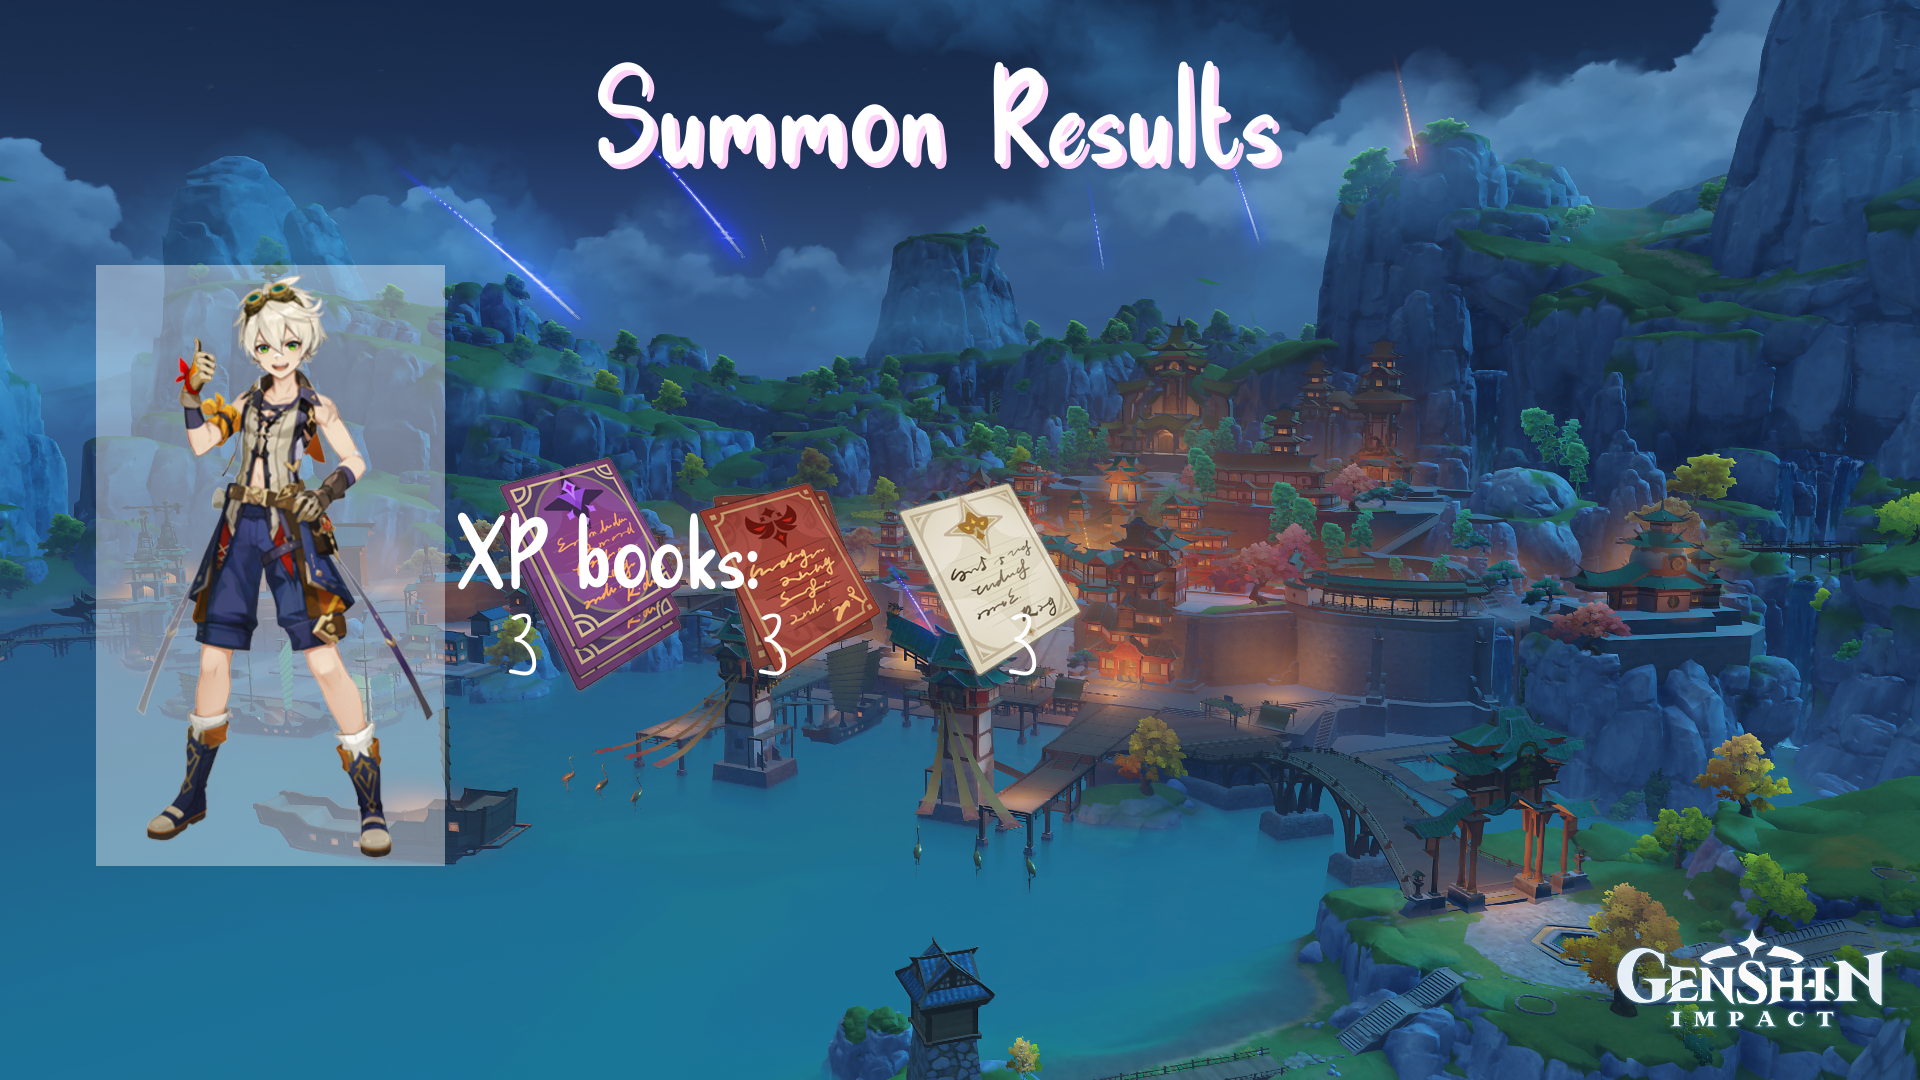
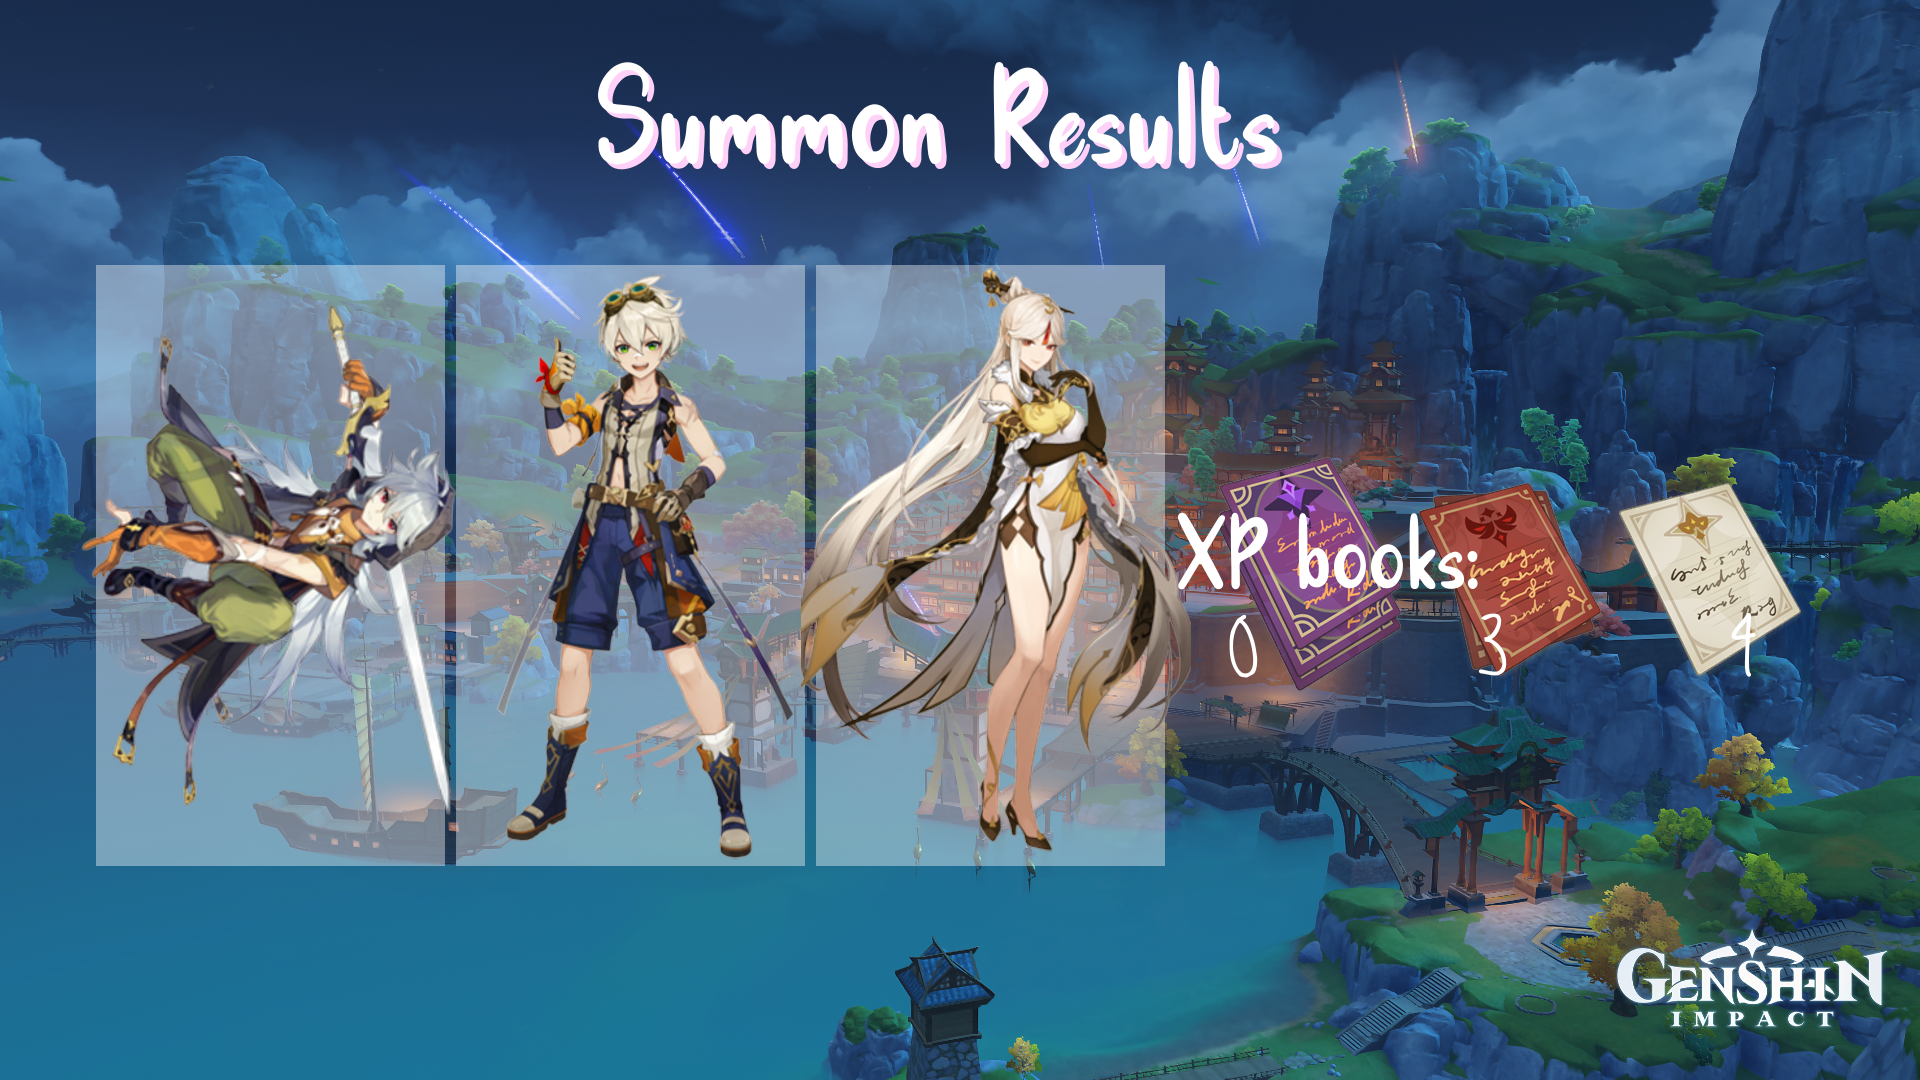
live update inventory

Changed region(s): [[0.0312, 0.2444, 0.9375, 0.825]]

diff --git a/util/idb.py b/util/idb.py
@@ -1,16 +1,62 @@
 import random
 
 import discord
-from discord.ext import commands, tasks
-from discord.ext.commands import has_permissions
+from discord.ext import commands
 from tinydb import TinyDB, Query
+
+
+def create_user(user_id):
+    with TinyDB('./inventory.json') as db:
+        db.insert({'user': user_id, 'chars': [], 'books': [0, 0, 0]})
+
+
+def search(user_id):
+    with TinyDB('./inventory.json') as db:
+        return db.search(Query().user == user_id)
+
+
+def add_char(user_id, char):
+    user_dict = search(user_id)
+    temp_chars = user_dict[0]['chars']
+
+    for characters in temp_chars:
+        if characters[0] == char:
+            if characters[2] < 6:
+                characters[2] += 1
+                with TinyDB('./inventory.json') as db:
+                    db.update({'chars': temp_chars}, Query().user == user_id)
+                return
+            else:
+                return
+
+    temp_chars.append((char, 0, 0))
+    with TinyDB('./inventory.json') as db:
+        db.update({'chars': temp_chars}, Query().user == user_id)
+
+
+def add_book(user_id, color):
+    user_dict = search(user_id)
+    temp_books = user_dict[0]['books']
+
+    if color == 'green_book':
+        temp_books[0] += 1
+    elif color == 'blue_book':
+        temp_books[1] += 1
+    else:
+        temp_books[2] += 1
+    with TinyDB('./inventory.json') as db:
+        db.update({'books': temp_books}, Query().user == user_id)
+
+
+def print_all():
+    with TinyDB('./inventory.json') as db:
+        print(db.all())
 
 
 class InventoryDatabase(commands.Cog):
 
     def __init__(self, client):
         self.client = client
-        self.db = TinyDB('./inventory.json')
 
     # add cog to main system
     @commands.Cog.listener()
@@ -20,64 +66,20 @@ class InventoryDatabase(commands.Cog):
     @commands.command(description='check your inventory full of goodies!\n.inventory')
     async def inventory(self, ctx, _id=0):
         _id = ctx.author.id if _id == 0 else _id
-        inv = self.search(_id)[0]
+        inv = search(_id)[0]
         embed = discord.Embed(title="Your inventory!", colour=discord.Colour(0x7ce010))
 
         embed.set_author(name=ctx.author.display_name if ctx.author.nick is None else ctx.author.nick)
 
         for char in inv.get('chars'):
             embed.add_field(name=char[0], value=f'Level {char[1]}\n Const. {char[2]}', inline=True)
-        embed.add_field(name='Experience Books', value=':blue_book::closed_book::green_book:', inline=False)
+        embed.add_field(name='Experience Books', value=':notebook: :arrow_down: ', inline=False)
         books = inv.get('books')
         embed.add_field(name='Purple Books', value=str(books[0]))
         embed.add_field(name='Blue Books', value=str(books[1]))
         embed.add_field(name='Green Books', value=str(books[2]))
 
         await ctx.send(embed=embed)
-
-    def create_user(self, user_id):
-        self.db.insert({'user': user_id, 'chars': [], 'books': [0, 0, 0]})
-
-    def search(self, user_id):
-        return self.db.search(Query().user == user_id)
-
-    def add_char(self, user_id, char):
-        user_dict = self.search(user_id)
-        temp_chars = user_dict[0]['chars']
-
-        for characters in temp_chars:
-            if characters[0] == char:
-                if characters[2] < 6:
-                    characters[2] += 1
-                    self.db.update({'chars': temp_chars}, Query().user == user_id)
-                    return
-                else:
-                    return
-
-        temp_chars.append((char, 0, 0))
-        self.db.update({'chars': temp_chars}, Query().user == user_id)
-
-    def add_book(self, user_id, color):
-        user_dict = self.search(user_id)
-        temp_books = user_dict[0]['books']
-
-        if color == 'green_book':
-            temp_books[0] += 1
-        elif color == 'blue_book':
-            temp_books[1] += 1
-        else:
-            temp_books[2] += 1
-
-        self.db.update({'books': temp_books}, Query().user == user_id)
-
-    def print_all(self):
-        print(self.db.all())
-
-    @commands.command(hidden=True)
-    @has_permissions(manage_guild=True)
-    async def close_idb(self, ctx):
-        self.db.close()
-        await ctx.send('inventory db connection closed')
 
 
 def setup(client):

diff --git a/cogs/summon.py b/cogs/summon.py
@@ -14,7 +14,6 @@ class Summon(commands.Cog):
         self.client = client
         self.udb = udb.UserDatabase(client)
         self.gdb = gdb.GachaDatabase(client)
-        self.idb = idb.InventoryDatabase(client)
         self.pillow = pillow.Pillow(client)
 
     # events
@@ -51,8 +50,8 @@ class Summon(commands.Cog):
                                   'nom noms each\nwish_event 1; .event_wish 10; .summon_event 10')
     async def event_wish(self, ctx, amount):
         amount = int(amount)
-        if len(self.idb.search(ctx.author.id)) == 0:
-            self.idb.create_user(ctx.author.id)
+        if len(idb.search(ctx.author.id)) == 0:
+            idb.create_user(ctx.author.id)
         if self.gdb.find_user('users', str(ctx.author.id)) is None:
             await self.gdb.insert('users', f'({ctx.author.id}, 0, 0, 0, 0, 0)')
         if not (amount == 1 or 10):
@@ -83,17 +82,17 @@ class Summon(commands.Cog):
         await self.udb.update('users', 'bal', '-'+str(160*amount), str(ctx.author.id))
         for item in results:
             if 'book' in item:
-                self.idb.add_book(ctx.author.id, item)
+                idb.add_book(ctx.author.id, item)
             else:
-                self.idb.add_char(ctx.author.id, item)
+                idb.add_char(ctx.author.id, item)
 
     @commands.command(aliases=['wish_reg', 'summon_reg'],
                       description='wish for new characters and levels on the rotating event banner at a price of 160 '
                                   'nom noms each\nwish_reg 1; .summon_reg 10')
     async def reg_wish(self, ctx, amount):
         amount = int(amount)
-        if len(self.idb.search(ctx.author.id)) == 0:
-            self.idb.create_user(ctx.author.id)
+        if len(idb.search(ctx.author.id)) == 0:
+            idb.create_user(ctx.author.id)
         if self.gdb.find_user('users', str(ctx.author.id)) is None:
             await self.gdb.insert('users', f'({ctx.author.id}, 0, 0, 0, 0, 0)')
         if not (amount == 1 or 10):
@@ -127,9 +126,9 @@ class Summon(commands.Cog):
 
         for item in results:
             if 'book' in item:
-                self.idb.add_book(ctx.author.id, item)
+                idb.add_book(ctx.author.id, item)
             else:
-                self.idb.add_char(ctx.author.id, item)
+                idb.add_char(ctx.author.id, item)
 
     def _wish_event_results(self, categories):
         results = []

diff --git a/bot.py b/bot.py
@@ -82,8 +82,8 @@ async def on_command_error(ctx, error):
     if isinstance(error, commands.MissingRequiredArgument):
         await ctx.send("nibbles can't do anything, something is missing! <:ShibaNervous:703366029425901620>")
     else:
-        with open('log.txt', 'a') as f:
-            f.write(f'[{datetime.now}] {error}')
+        with open('log.txt', 'a') as _f:
+            _f.write(f'[{datetime.now().strftime("%m/%d/%Y, %H:%M:%S")}] {error}\n')
 
 
 @client.command(aliases=['help'], hidden=True)

diff --git a/cogs/gamble.py b/cogs/gamble.py
@@ -98,7 +98,7 @@ class Gamble(commands.Cog):
                       description='flip a coin with the face you predict and how much you want to bet for it\n'
                                   '.gamble_coin heads 160; .bet_coin tails 320')
     @cooldown(5, 10, BucketType.user)
-    async def gamble_coin(self, ctx, face, bet=0):
+    async def gamble_coin(self, ctx, face='heads', bet=0):
         _id = ctx.author.id
 
         if bet == 'all':
